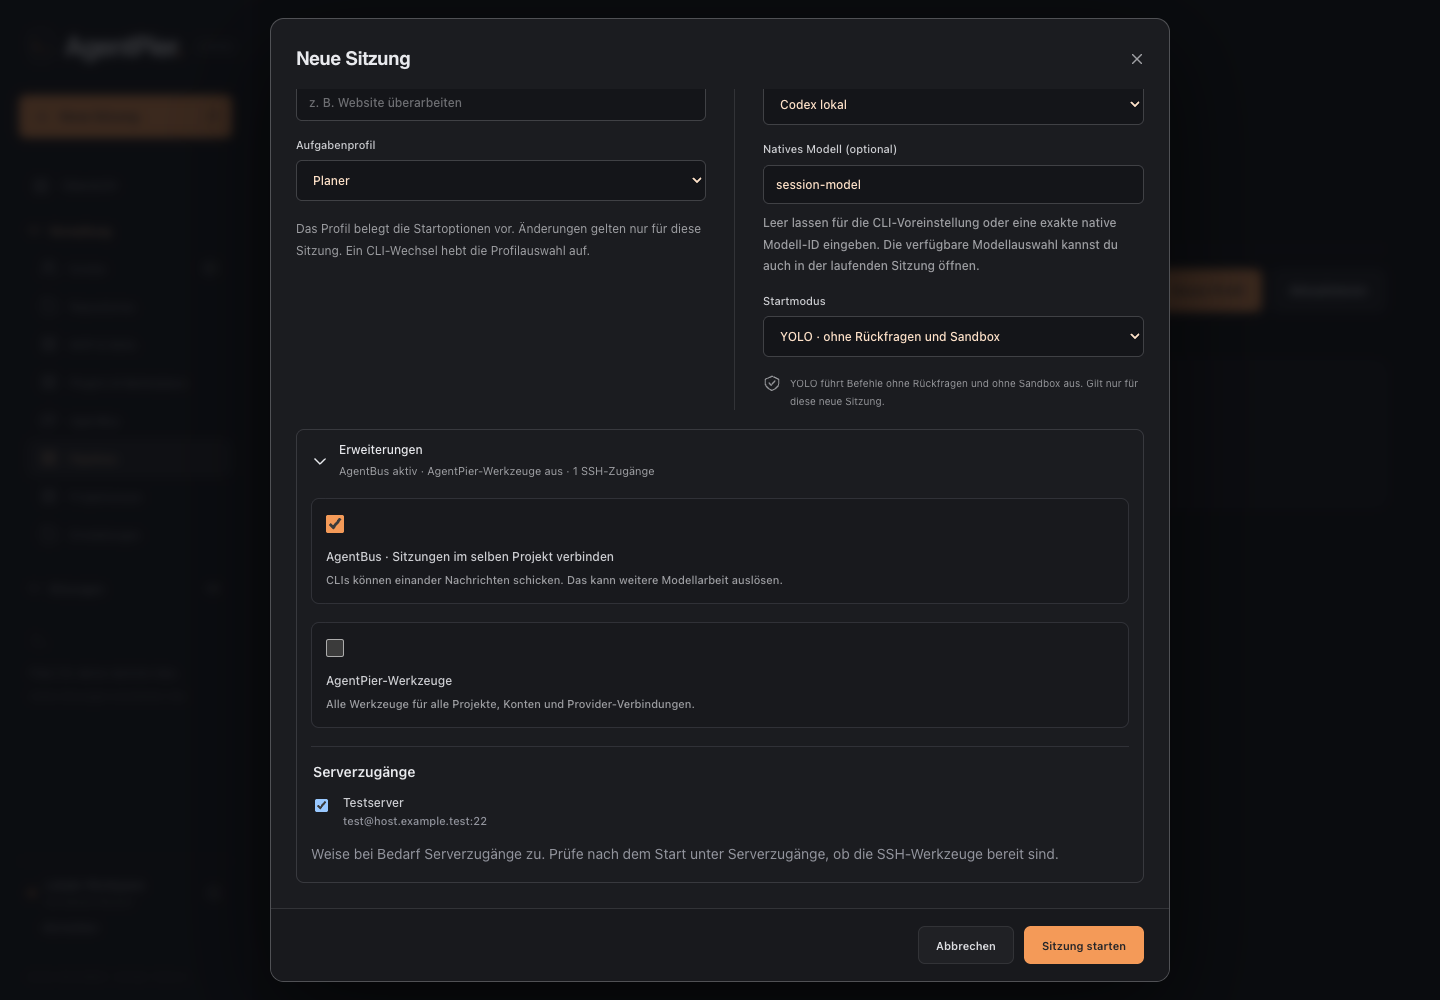
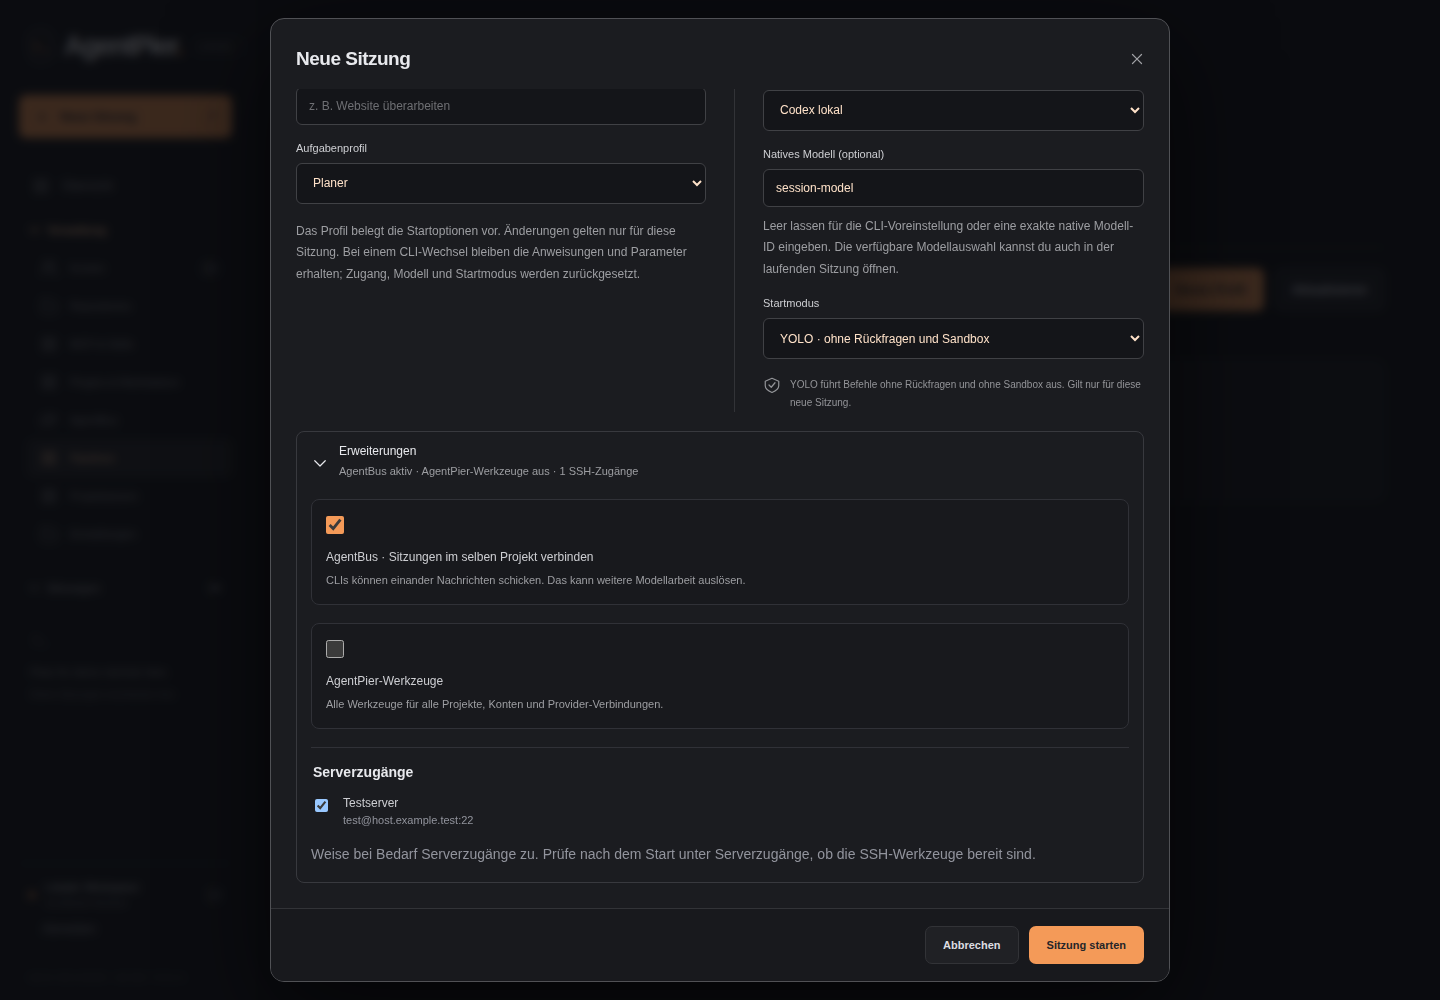
fix: preserve task profiles and default Codex sessions to YOLO (#62)
* fix: preserve task profile instructions when changing session CLI

* fix: default new Codex sessions to YOLO

---------

diff --git a/tests/browser/session-profiles.spec.js b/tests/browser/session-profiles.spec.js
@@ -65,11 +65,11 @@ for (const width of [1440, 390])
     await expect(profile).toHaveValue("profile-one");
     await expect(model).toHaveValue("session-model");
     await profile.selectOption("");
-    await expect(dialog.getByLabel("Startmodus", { exact: true })).toHaveValue("default");
+    await expect(dialog.getByLabel("Startmodus", { exact: true })).toHaveValue("yolo");
     await expect(model).toHaveValue("");
     await profile.selectOption("profile-one");
     await dialog.getByLabel("CLI", { exact: true }).selectOption("claude");
-    await expect(profile).toHaveValue("");
+    await expect(profile).toHaveValue("profile-one");
     await expect(dialog.getByLabel("Startmodus", { exact: true })).toHaveValue("auto");
   });
 
@@ -121,4 +121,60 @@ test("a removed preselected profile cannot silently launch a plain session", asy
   await expect(
     dialog.getByRole("button", { name: "Sitzung starten", exact: true }),
   ).toBeEnabled();
+});
+
+test("Bug Hunter instructions and parameters survive switching from Claude to Codex", async ({
+  page,
+}) => {
+  const state = await pipelinesFixture(page);
+  const profile = state.profiles[0];
+  profile.name = "Bug Hunter";
+  profile.config.cliTool = "claude";
+  profile.config.accountId = "local-claude";
+  profile.config.permissions.mode = "auto";
+  profile.config.prompts.params = [{ key: "topic", label: "Fehler", required: true }];
+  await openPipelines(page);
+  await page.getByRole("button", { name: "Neue Sitzung", exact: true }).click();
+  const dialog = page.getByRole("dialog", { name: "Neue Sitzung", exact: true });
+  const selection = dialog.getByRole("combobox", { name: "Aufgabenprofil", exact: true });
+  await selection.selectOption(profile.id);
+  await dialog.getByLabel("Fehler", { exact: true }).fill("Missing kickoff");
+  await dialog.getByLabel("CLI", { exact: true }).selectOption("codex");
+  await expect(selection).toHaveValue(profile.id);
+  await expect(dialog.getByLabel("Fehler", { exact: true })).toHaveValue(
+    "Missing kickoff",
+  );
+  await expect(dialog.getByLabel("Startmodus", { exact: true })).toHaveValue("yolo");
+  await expect(
+    dialog.getByLabel("Startmodus", { exact: true }).locator('option[value="profile"]'),
+  ).toHaveCount(0);
+  state.fail = `/pipeline-profiles/${profile.id}/launch`;
+  await dialog.getByRole("button", { name: "Sitzung starten", exact: true }).click();
+  await expect(dialog.getByRole("alert")).toContainText("Fixture conflict");
+  expect(state.calls.find((call) => call.path.endsWith("/launch")).body).toMatchObject({
+    access: { tool: "codex", accountId: "local-codex" },
+    params: { topic: "Missing kickoff" },
+    launchMode: "yolo",
+  });
+  expect(
+    state.calls.some((call) => call.path === "/sessions" && call.method === "POST"),
+  ).toBe(false);
+  await dialog
+    .getByLabel("Zugang", { exact: true })
+    .selectOption("provider:central-openrouter");
+  await dialog
+    .getByRole("combobox", { name: "Anbietermodell", exact: true })
+    .selectOption("fixture/model");
+  await dialog.getByRole("button", { name: "Sitzung starten", exact: true }).click();
+  await expect
+    .poll(() => state.calls.filter((call) => call.path.endsWith("/launch")).length)
+    .toBe(2);
+  expect(
+    state.calls.filter((call) => call.path.endsWith("/launch"))[1].body.access,
+  ).toEqual({
+    tool: "codex",
+    accountId: "local-codex",
+    providerConnectionId: "central-openrouter",
+    providerModelId: "fixture/model",
+  });
 });

diff --git a/web/features/sessions/LaunchDialog.jsx b/web/features/sessions/LaunchDialog.jsx
@@ -18,7 +18,7 @@ import AsyncForm from "../../components/AsyncForm.jsx";
 import DirectoryPicker from "../directories/DirectoryPicker.jsx";
 import AnchoredSelect from "../../components/AnchoredSelect.jsx";
 const defaultMode = (tool) =>
-  ["claude", "opencode"].includes(tool) ? "auto" : "default";
+  ({ codex: "yolo", claude: "auto", opencode: "auto" })[tool] || "default";
 export default function LaunchDialog({
   state,
   tool,
@@ -37,8 +37,8 @@ export default function LaunchDialog({
   const [profileId, setProfileId] = useState(initialProfile?.id || ""),
     [params, setParams] = useState({});
   const profile = profiles.data?.profiles?.find((item) => item.id === profileId);
-  const profileReady =
-    !profileId || Boolean(profile?.enabled && profile.config.cliTool === access.tool);
+  const profileReady = !profileId || Boolean(profile?.enabled);
+  const profileCli = profile?.config.cliTool === access.tool;
   function chooseProfile(id) {
     const selected = profiles.data?.profiles?.find((item) => item.id === id);
     setProfileId(id);
@@ -121,7 +121,13 @@ export default function LaunchDialog({
                     access: {
                       ...access.body,
                       ...(access.connection
-                        ? { accountId: profile.config.accountId }
+                        ? {
+                            accountId: profileCli
+                              ? profile.config.accountId
+                              : access.accounts.find(
+                                  (item) => !item.internal && !item.provider,
+                                )?.id,
+                          }
                         : {}),
                     },
                     ...(launchMode !== "profile" ? { launchMode } : {}),
@@ -237,9 +243,8 @@ export default function LaunchDialog({
                       access.chooseAccess(value);
                     }}
                     onToolChange={(value) => {
+                      if (value === access.tool) return;
                       access.chooseTool(value);
-                      setProfileId("");
-                      setParams({});
                       setLaunchMode(defaultMode(value));
                     }}
                   />
@@ -253,7 +258,7 @@ export default function LaunchDialog({
                         disabled={!selectedTool}
                         onChange={setLaunchMode}
                         options={[
-                          ...(profile
+                          ...(profileCli
                             ? [
                                 {
                                   value: "profile",

diff --git a/tests/unit/standalone-profile.test.js b/tests/unit/standalone-profile.test.js
@@ -22,7 +22,12 @@ function fixture(tool = "codex") {
       },
     },
   };
-  const accounts = { get: (id) => ({ id, tool: id === "wrong-cli" ? "shell" : tool }) };
+  const accounts = {
+    get: (id) => ({
+      id,
+      tool: id === "wrong-cli" ? "shell" : id.startsWith("local-") ? id.slice(6) : tool,
+    }),
+  };
   let captured;
   const driver = {
     accounts,
@@ -106,7 +111,7 @@ test("standalone choices reject mismatched access and still require profile para
   const f = fixture();
   for (const access of [
     null,
-    { tool: "claude", accountId: "local-claude" },
+    { tool: "claude", accountId: "local-codex" },
     { tool: "codex", accountId: "wrong-cli" },
     {
       tool: "codex",
@@ -124,4 +129,32 @@ test("standalone choices reject mismatched access and still require profile para
   f.profile.enabled = false;
   await assert.rejects(f.launch({ params: { topic: "code" } }), /disabled/);
   assert.equal(f.captured(), undefined);
+});
+
+for (const tool of ["codex", "claude", "opencode"])
+  test(`changing a standalone profile CLI to ${tool} retains its rendered instructions`, async () => {
+    const f = fixture(tool === "claude" ? "codex" : "claude");
+    const original = structuredClone(f.profile);
+    await f.launch({
+      access: { tool, accountId: `local-${tool}`, nativeModelId: "selected-model" },
+      params: { topic: "the reported bug" },
+      launchMode: "default",
+    });
+    const result = f.captured();
+    assert.equal(result.body.accountId, `local-${tool}`);
+    assert.equal(result.model, "selected-model");
+    assert.deepEqual(result.command.args.slice(-2), [
+      tool === "opencode" ? "--prompt" : "--",
+      "Review carefully\n\nInspect the reported bug",
+    ]);
+    assert.deepEqual(f.profile, original);
+  });
+
+test("switching from Claude to Codex without a mode override uses Codex permissions", async () => {
+  const f = fixture("claude");
+  await f.launch({
+    access: { tool: "codex", accountId: "local-codex" },
+    params: { topic: "bug" },
+  });
+  assert.ok(f.captured().command.args.includes('approval_policy="on-request"'));
 });

diff --git a/tests/browser/launch-modes.spec.js b/tests/browser/launch-modes.spec.js
@@ -31,33 +31,36 @@ async function launchFixture(page) {
   return launches;
 }
 
-test("new sessions default to Claude/OpenCode Auto while Codex retains Standard", async ({
-  page,
-}) => {
+test("new sessions default to Codex YOLO and Claude/OpenCode Auto", async ({ page }) => {
   const launches = await launchFixture(page);
   const mode = page.getByLabel("Startmodus", { exact: true });
-  await expect(mode).toHaveValue("default");
+  await expect(mode).toHaveValue("yolo");
   await page
     .getByRole("dialog")
     .getByRole("button", { name: "Sitzung starten", exact: true })
     .click();
   await expect(page.getByRole("alert")).toHaveText("Test launch captured");
-  expect(launches[0]).toMatchObject({ accountId: "local-codex", launchMode: "default" });
-  await mode.selectOption("yolo");
+  expect(launches[0]).toMatchObject({ accountId: "local-codex", launchMode: "yolo" });
+  await mode.selectOption("default");
   await page.getByLabel("CLI", { exact: true }).selectOption("claude");
   await expect(mode).toHaveValue("auto");
   await expect(mode.locator('option[value="yolo"]')).toHaveCount(0);
   await mode.selectOption("auto");
   await page.getByLabel("CLI", { exact: true }).selectOption("opencode");
   await expect(mode).toHaveValue("auto");
+  await page.getByLabel("CLI", { exact: true }).selectOption("codex");
+  await expect(mode).toHaveValue("yolo");
 });
 
 for (const { tool, mode, note } of [
   { tool: "codex", mode: "yolo", note: /ohne Sandbox/ },
+  { tool: "codex", mode: "default", note: /Voreinstellungen/ },
   { tool: "claude", mode: "auto", note: /Sicherheitsprüfung/ },
   { tool: "opencode", mode: "auto", note: /Verbote bleiben/ },
 ])
-  test(`${tool} submits its explicitly selected native launch mode`, async ({ page }) => {
+  test(`${tool} submits its explicitly selected ${mode} launch mode`, async ({
+    page,
+  }) => {
     const launches = await launchFixture(page);
     await page.getByLabel("CLI", { exact: true }).selectOption(tool);
     await page.getByLabel("Startmodus", { exact: true }).selectOption(mode);

diff --git a/server/features/pipelines/standalone-profile.js b/server/features/pipelines/standalone-profile.js
@@ -1,18 +1,22 @@
 import { problem } from "../../lib/storage.js";
-import { validateProfile } from "./profile-validation.js";
+import { PERMISSION_MODES, validateProfile } from "./profile-validation.js";
 
 // Per-session choices never update the stored profile or pipeline snapshots.
 export function standaloneProfile(profile, access, accounts) {
   if (access === undefined) return profile;
   if (!access || typeof access !== "object" || Array.isArray(access))
     throw problem("Invalid session access selection.");
-  if (access.tool !== profile.config.cliTool)
-    throw problem("The session CLI must match the task profile.");
+  if (!Object.hasOwn(PERMISSION_MODES, access.tool))
+    throw problem("Invalid session CLI.");
   if (access.providerConnectionId !== undefined && access.nativeModelId !== undefined)
     throw problem("Choose either a native model or a provider model.");
   if (access.providerConnectionId === undefined && access.providerModelId !== undefined)
     throw problem("Select a provider connection for the provider model.");
-  const config = { ...profile.config };
+  const config = { ...profile.config, cliTool: access.tool };
+  if (access.tool !== profile.config.cliTool)
+    config.permissions = {
+      mode: { codex: "on-request", claude: "default", opencode: "ask" }[access.tool],
+    };
   delete config.providerConnectionId;
   config.accountId = access.accountId;
   if (access.providerConnectionId !== undefined)

diff --git a/web/lib/i18n/de/sessions.js b/web/lib/i18n/de/sessions.js
@@ -13,7 +13,7 @@ export const launchDialogCopy = {
   profileUnavailable:
     "Das Aufgabenprofil ist nicht verfügbar. Bitte wähle ein anderes Profil.",
   profileSessionHint:
-    "Das Profil belegt die Startoptionen vor. Änderungen gelten nur für diese Sitzung. Ein CLI-Wechsel hebt die Profilauswahl auf.",
+    "Das Profil belegt die Startoptionen vor. Änderungen gelten nur für diese Sitzung. Bei einem CLI-Wechsel bleiben die Anweisungen und Parameter erhalten; Zugang, Modell und Startmodus werden zurückgesetzt.",
   profileMode: (mode) => `Profil · ${mode}`,
   profileModeDescription: (mode) =>
     `Verwendet den Berechtigungsmodus ${mode} aus dem Aufgabenprofil.`,

diff --git a/web/lib/i18n/en/sessions.js b/web/lib/i18n/en/sessions.js
@@ -12,7 +12,7 @@ export const launchDialogCopy = {
   noTaskProfile: "No task profile",
   profileUnavailable: "This task profile is unavailable. Please choose another profile.",
   profileSessionHint:
-    "The profile presets the launch options. Changes apply only to this session. Changing the CLI clears the profile selection.",
+    "The profile presets the launch options. Changes apply only to this session. Changing the CLI preserves instructions and parameters while resetting access, model and launch mode.",
   profileMode: (mode) => `Profile · ${mode}`,
   profileModeDescription: (mode) => `Uses permission mode ${mode} from the task profile.`,
 
